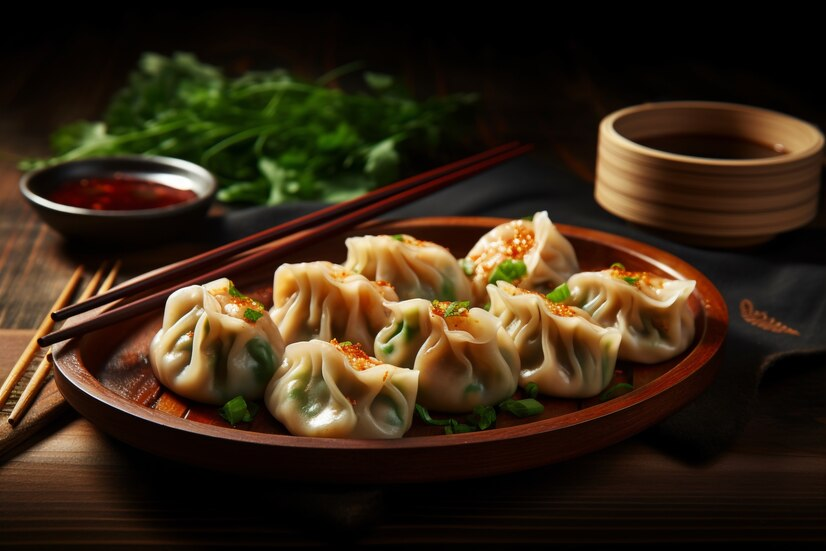
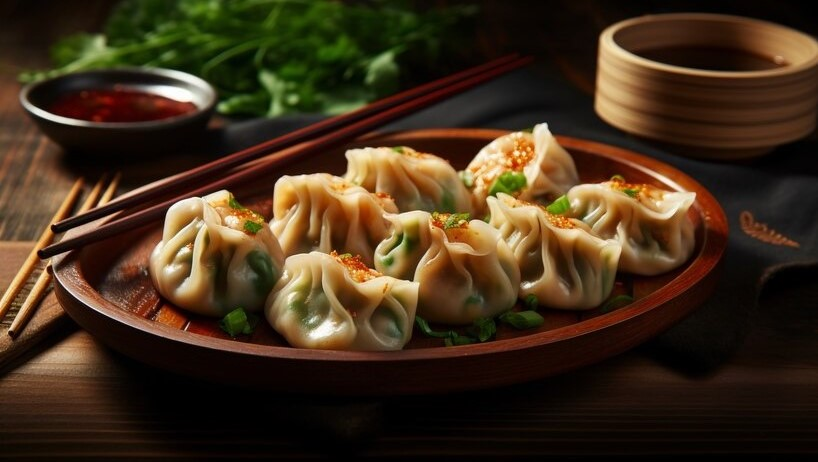
carousel

diff --git a/frontend/src/components/Carousal.js b/frontend/src/components/Carousal.js
@@ -1,90 +1,90 @@
-import React from "react";
-import Burger from "../images/Burger.jpg";
-import dessert from "../images/dessert.jpg";
-import Dumplings from "../images/Dumplings.jpg";
+// import React from "react";
+// import Burger from "../images/Burger.jpg";
+// import dessert from "../images/dessert.jpg";
+// import Dumplings from "../images/Dumplings.jpg";
 
-export default function () {
-  return (
-    <div>
-      <div
-        id="carouselExampleFade"
-        className="carousel slide carousel-fade "
-        data-bs-ride="carousel  "
-        style={{ objectFit: "contain !important" }}
-      >
-        <div
-          className="carousel-inner"
-          style={{ "max-height": "500px", "min-height": "499px" }}
-        >
-          <div className="carousel-caption" style={{ zIndex: "10" }}>
-            <form className="d-flex">
-              <input
-                className="form-control me-2"
-                type="search"
-                placeholder="Search"
-                aria-label="Search"
-              />
-              <button
-                className="btn btn-outline-success text-white bg-success"
-                type="submit"
-              >
-                Search
-              </button>
-            </form>
-          </div>
+// export default function () {
+//   return (
+//     <div>
+//       <div
+//         id="carouselExampleFade"
+//         className="carousel slide carousel-fade "
+//         data-bs-ride="carousel  "
+//         style={{ objectFit: "contain !important" }}
+//       >
+//         <div
+//           className="carousel-inner"
+//           style={{ "max-height": "500px", "min-height": "499px" }}
+//         >
+//           <div className="carousel-caption" style={{ zIndex: "10" }}>
+//             <form className="d-flex">
+//               <input
+//                 className="form-control me-2"
+//                 type="search"
+//                 placeholder="Search"
+//                 aria-label="Search"
+//               />
+//               <button
+//                 className="btn btn-outline-success text-white bg-success"
+//                 type="submit"
+//               >
+//                 Search
+//               </button>
+//             </form>
+//           </div>
 
-          <div className="carousel-item active">
-            <img
-              src={Burger}
-              className="d-block w-100  "
-              style={{ filter: "brightness(30%)" }}
-              alt="..."
-            />
-          </div>
+//           <div className="carousel-item active">
+//             <img
+//               src={Burger}
+//               className="d-block w-100  "
+//               style={{ filter: "brightness(30%)" }}
+//               alt="..."
+//             />
+//           </div>
 
-          <div className="carousel-item">
-            <img
-              src={Dumplings}
-              className="d-block w-100"
-              style={{ filter: "brightness(30%)" }}
-              alt="..."
-            />
-          </div>
+//           <div className="carousel-item">
+//             <img
+//               src={Dumplings}
+//               className="d-block w-100"
+//               style={{ filter: "brightness(30%)" }}
+//               alt="..."
+//             />
+//           </div>
 
-          <div className="carousel-item">
-            <img
-              src={dessert}
-              className="d-block w-100"
-              style={{ filter: "brightness(30%)" }}
-              alt="..."
-            />
-          </div>
-        </div>
-        <button
-          className="carousel-control-prev"
-          type="button"
-          data-bs-target="#carouselExampleFade"
-          data-bs-slide="prev"
-        >
-          <span
-            className="carousel-control-prev-icon"
-            aria-hidden="true"
-          ></span>
-          <span className="visually-hidden">Previous</span>
-        </button>
-        <button
-          className="carousel-control-next"
-          type="button"
-          data-bs-target="#carouselExampleFade"
-          data-bs-slide="next"
-        >
-          <span
-            className="carousel-control-next-icon"
-            aria-hidden="true"
-          ></span>
-          <span className="visually-hidden">Next</span>
-        </button>
-      </div>
-    </div>
-  );
-}
+//           <div className="carousel-item">
+//             <img
+//               src={dessert}
+//               className="d-block w-100"
+//               style={{ filter: "brightness(30%)" }}
+//               alt="..."
+//             />
+//           </div>
+//         </div>
+//         <button
+//           className="carousel-control-prev"
+//           type="button"
+//           data-bs-target="#carouselExampleFade"
+//           data-bs-slide="prev"
+//         >
+//           <span
+//             className="carousel-control-prev-icon"
+//             aria-hidden="true"
+//           ></span>
+//           <span className="visually-hidden">Previous</span>
+//         </button>
+//         <button
+//           className="carousel-control-next"
+//           type="button"
+//           data-bs-target="#carouselExampleFade"
+//           data-bs-slide="next"
+//         >
+//           <span
+//             className="carousel-control-next-icon"
+//             aria-hidden="true"
+//           ></span>
+//           <span className="visually-hidden">Next</span>
+//         </button>
+//       </div>
+//     </div>
+//   );
+// }

diff --git a/frontend/src/screens/Home.js b/frontend/src/screens/Home.js
@@ -3,6 +3,9 @@ import NavBar from "../components/NavBar";
 import Footer from "../components/Footer";
 import Card from "../components/Card";
 import Shimmer from "../components/Shimmer";
+import Burger from "../images/Burger.jpg";
+import dessert from "../images/dessert.jpg";
+import Dumplings from "../images/Dumplings.jpg";
 // import Carousal from "../components/Carousal";
 
 // let a = "https://foodiee-mern.vercel.app";
@@ -53,7 +56,10 @@ export default function Home() {
           data-bs-ride="carousel  "
           style={{ objectFit: "contain !important" }}
         >
-          <div className="carousel-inner" style={{ "max-height": "500px" }}>
+          <div
+            className="carousel-inner"
+            style={{ "max-height": "500px", "min-height": "399px" }}
+          >
             <div className="carousel-caption" style={{ zIndex: "10" }}>
               <div className="d-flex justify-content-center">
                 <input
@@ -77,7 +83,7 @@ export default function Home() {
 
             <div className="carousel-item active">
               <img
-                src="https://source.unsplash.com/random/900×700?burger"
+                src={Burger}
                 className="d-block w-100"
                 style={{ filter: "brightness(30%)" }}
                 alt="..."
@@ -86,7 +92,7 @@ export default function Home() {
 
             <div className="carousel-item">
               <img
-                src="https://source.unsplash.com/random/900×700?momos"
+                src={Dumplings}
                 className="d-block w-100"
                 style={{ filter: "brightness(30%)" }}
                 alt="..."
@@ -95,7 +101,7 @@ export default function Home() {
 
             <div className="carousel-item">
               <img
-                src="https://source.unsplash.com/random/900×700?icecream"
+                src={dessert}
                 className="d-block w-100"
                 style={{ filter: "brightness(30%)" }}
                 alt="..."

diff --git a/frontend/src/components/NavBar.js b/frontend/src/components/NavBar.js
@@ -18,7 +18,7 @@ export default function NavBar() {
   return (
     <div>
       <nav className="navbar navbar-expand-lg navbar-dark bg-dark">
-        <div className="container-fluid">
+        <div className="container-fluid ">
           <Link className="navbar-brand fs-1 fst-italic" to="/">
             Foodiee
           </Link>
